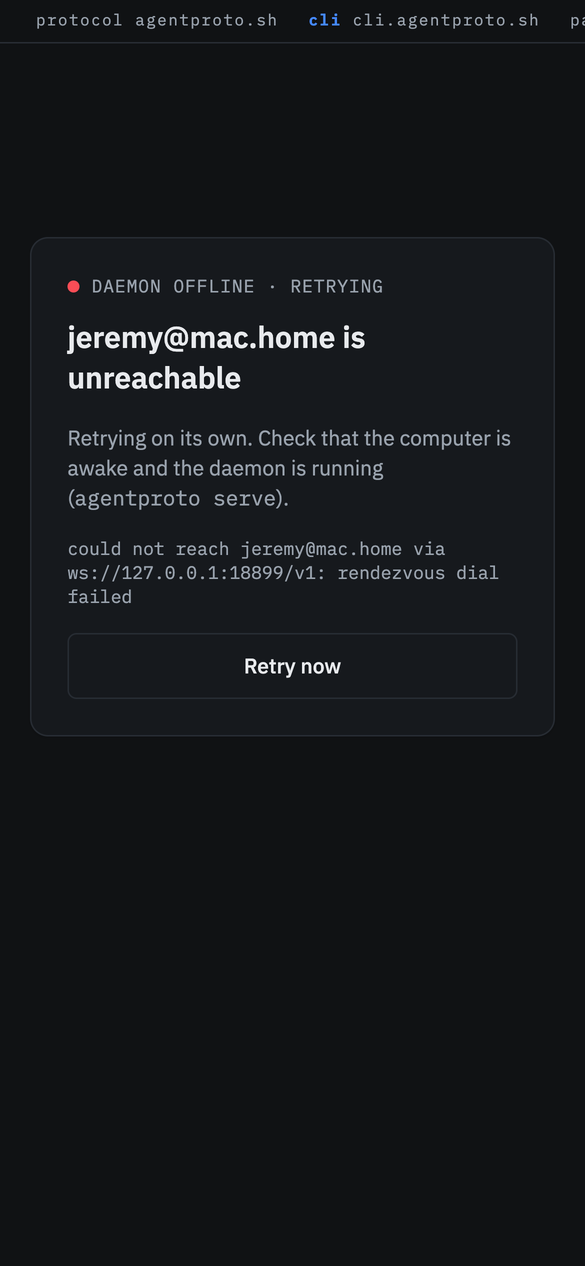
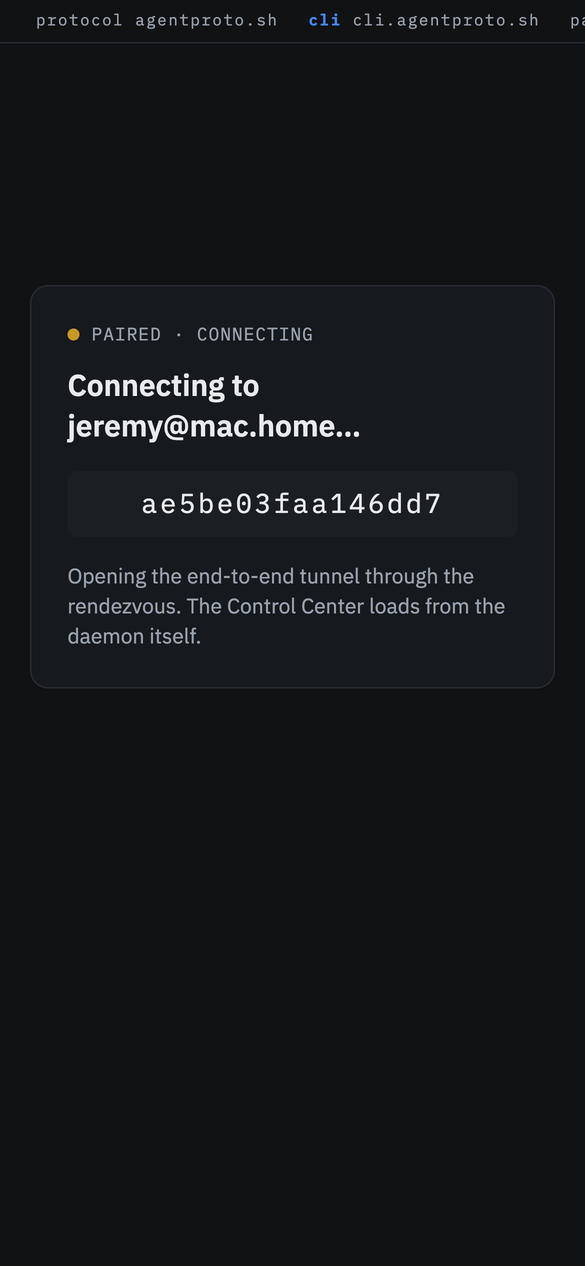
feat(pair): outdated-pairing state for pair/v2
A stored credential or a scanned offer from before pair/v2 can never
connect again (pair-client's `outdated` state / `protocol_outdated`,
refused before any dial). The worker treats it as terminal like a
revocation and sends an open Control Center to /d/<id>, which now shows a
"not paired · outdated pairing" page telling the user to update agentproto
and pair again from a new QR. /pair shows a matching message for a v1 offer.

Screenshots re-taken against pair/v2 through a rendezvous at its default
1 MiB message cap.

Changed region(s): [[0.0923, 0.2156, 0.8615, 0.5237], [0.4, 0.5237, 0.5846, 0.5545]]

diff --git a/src/sw/pair-sw.ts b/src/sw/pair-sw.ts
@@ -23,6 +23,7 @@ import {
 } from "@agentproto/pair-client"
 import {
   CONTROL_CENTER_PATH,
+  isOutdatedPairingError,
   isPairingId,
   statusPath,
   type PairState,
@@ -52,7 +53,10 @@ class NotPairedError extends Error {
 }
 
 function getClient(): Promise<TunnelClient> {
-  if (client && client.state !== "closed") return Promise.resolve(client)
+  // Kept even when closed as outdated: rebuilding would only be refused again.
+  if (client && (client.state !== "closed" || isOutdatedPairingError(client.lastError))) {
+    return Promise.resolve(client)
+  }
   building ??= (async () => {
     const credential = isPairingId(id) ? await store.get(id) : undefined
     notPaired = !credential
@@ -77,8 +81,14 @@ function dropClient(): void {
 }
 
 function currentStatus(): PairWorkerStatus {
-  const state: PairState = notPaired ? "not_paired" : (client?.state ?? "connecting")
   const err = client?.lastError
+  // A credential from before the current pairing protocol is refused before
+  // any dial, and the client can report that as `closed`: key on the error.
+  const state: PairState = notPaired
+    ? "not_paired"
+    : isOutdatedPairingError(err)
+      ? "outdated"
+      : (client?.state ?? "connecting")
   return {
     type: "agentproto-pair:state",
     id,
@@ -104,14 +114,16 @@ async function leaveControlCenter(state: PairState): Promise<void> {
   }
 }
 
-function onState(c: TunnelClient, { state }: StateChange): void {
+function onState(c: TunnelClient, change: StateChange): void {
   if (c !== client) return
+  const state = isOutdatedPairingError(change.error ?? c.lastError) ? "outdated" : change.state
   void broadcast()
   if (offlineTimer && state !== "offline") {
     clearTimeout(offlineTimer)
     offlineTimer = null
   }
-  if (state === "revoked") void leaveControlCenter("revoked")
+  // Both terminal: the client stops retrying, and only a new pairing helps.
+  if (state === "revoked" || state === "outdated") void leaveControlCenter(state)
   if (state === "offline" && !offlineTimer) {
     offlineTimer = setTimeout(() => {
       offlineTimer = null
@@ -120,7 +132,9 @@ function onState(c: TunnelClient, { state }: StateChange): void {
   }
 }
 
+/** The `state=` hint for the status page. */
 function errorCode(err: unknown): string {
+  if (isOutdatedPairingError(err)) return "outdated"
   if (err instanceof TunnelClientError || err instanceof NotPairedError) return err.code
   return "error"
 }

diff --git a/src/app/pair/page.tsx b/src/app/pair/page.tsx
@@ -10,7 +10,7 @@ import {
   type PendingPairing,
 } from "@agentproto/pair-client"
 import { Fingerprint, HowToPair, PairButton, PairShell } from "@/components/pair-shell"
-import { statusPath } from "@/lib/pair"
+import { isOutdatedPairingError, statusPath } from "@/lib/pair"
 import {
   forgetPairing,
   pairStore,
@@ -26,11 +26,11 @@ type Phase =
   | { kind: "confirm"; daemon: PairedDaemon }
   | { kind: "saving"; daemon: PairedDaemon }
   | { kind: "cancelled"; daemon: PairedDaemon }
-  | { kind: "error"; title: string; message: string }
+  | { kind: "error"; title: string; message: string; outdated?: boolean }
   | { kind: "unsupported" }
 
 /**
- * Read the offer out of the fragment (`/pair#v=1&rv=…`, what `agentproto pair
+ * Read the offer out of the fragment (`/pair#v=2&rv=…`, what `agentproto pair
  * offer --qr` links to) and wipe it from the address bar and history right
  * away, before anything else runs. The fragment is the query string of an
  * `agentproto://pair?…` offer; it never reached a server.
@@ -61,8 +61,11 @@ function deviceName(): string {
   return device ? `${device} browser (${window.location.host})` : `browser@${window.location.host}`
 }
 
-function describeError(err: unknown): { title: string; message: string } {
+function describeError(err: unknown): { title: string; message: string; outdated?: boolean } {
   const message = err instanceof Error ? err.message : String(err)
+  if (isOutdatedPairingError(err)) {
+    return { title: "This pairing link is from an older agentproto", message, outdated: true }
+  }
   if (err instanceof TunnelClientError) {
     if (err.code === "invalid_offer") {
       return { title: "This pairing link is invalid or expired", message }
@@ -251,7 +254,11 @@ export default function PairPage(): React.ReactElement {
       return (
         <PairShell eyebrow="pairing failed" title={phase.title} tone="danger">
           <p className="break-words font-mono text-xs">{phase.message}</p>
-          <p>Pairing links are single-use and expire after a few minutes. Get a fresh one:</p>
+          <p>
+            {phase.outdated
+              ? "Update agentproto on the computer, then get a new pairing link:"
+              : "Pairing links are single-use and expire after a few minutes. Get a fresh one:"}
+          </p>
           <HowToPair />
         </PairShell>
       )

diff --git a/src/lib/pair.ts b/src/lib/pair.ts
@@ -39,9 +39,22 @@ export function controlCenterUrl(id: string): string {
   return `/d/${id}${CONTROL_CENTER_PATH}`
 }
 
-/** Tunnel state as the worker reports it: the pair-client `ConnectionState`,
- *  plus `not_paired` when no credential is stored for the scope. */
-export type PairState = "connecting" | "open" | "offline" | "revoked" | "closed" | "not_paired"
+/** Tunnel state as the worker reports it: the pair-client `ConnectionState`
+ *  (`outdated` = the pairing predates the current pairing protocol), plus
+ *  `not_paired` when no credential is stored for the scope. */
+export type PairState = "connecting" | "open" | "offline" | "revoked" | "closed" | "not_paired" | "outdated"
+
+/** The offer or the stored credential predates the current pairing protocol
+ *  (pair-client's `protocol_outdated`, the daemon's `pairing_protocol_outdated`
+ *  underneath): it can never work again, only a fresh pairing can. */
+export function isOutdatedPairingError(err: unknown): boolean {
+  for (let e = err, depth = 0; e && typeof e === "object" && depth < 4; depth++) {
+    const { code, cause } = e as { code?: unknown; cause?: unknown }
+    if (code === "protocol_outdated" || code === "pairing_protocol_outdated") return true
+    e = cause
+  }
+  return false
+}
 
 /** Page → worker. */
 export type PairWorkerRequest =

diff --git a/src/app/d/[id]/[[...rest]]/page.tsx b/src/app/d/[id]/[[...rest]]/page.tsx
@@ -30,7 +30,14 @@ function resolveNext(id: string, fromQuery: string | null, here: string | null):
 }
 
 function isPairState(s: string | null): s is PairState {
-  return s === "connecting" || s === "open" || s === "offline" || s === "revoked" || s === "not_paired"
+  return (
+    s === "connecting" ||
+    s === "open" ||
+    s === "offline" ||
+    s === "revoked" ||
+    s === "not_paired" ||
+    s === "outdated"
+  )
 }
 
 /**
@@ -165,6 +172,20 @@ export default function DaemonStatusPage(): React.ReactElement {
           <HowToPair />
           <PairButton variant="danger" onClick={() => void forget()}>
             Forget this daemon
+          </PairButton>
+        </PairShell>
+      )
+
+    case "outdated":
+      return (
+        <PairShell eyebrow="not paired · outdated pairing" title="Pair this phone again" tone="danger">
+          <p>
+            This phone was paired with {daemon} using an older pairing protocol, which the daemon no longer
+            accepts. Make sure agentproto is up to date on the computer, then pair again from a new QR.
+          </p>
+          <HowToPair />
+          <PairButton variant="danger" onClick={() => void forget()}>
+            Forget the old pairing
           </PairButton>
         </PairShell>
       )
